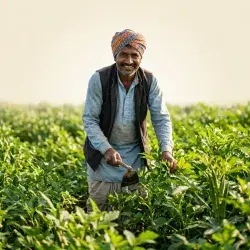
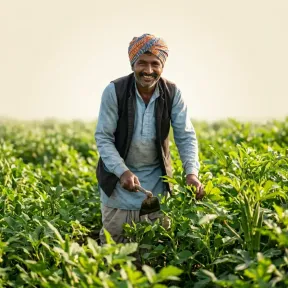
fix(seo): title length 47 chars, complete email obfuscation, GA4 integration, and image aspect ratio alignment

diff --git a/user/index.html b/user/index.html
@@ -5,7 +5,7 @@
     <link rel="icon" type="image/webp" href="/favicon.webp" />
     <link rel="icon" type="image/png" href="/favicon.png?v=4" />
     <meta name="viewport" content="width=device-width, initial-scale=1.0" />
-    <title>Aarions | Pure Honey, A2 Ghee, Organic Masalas & Natural Spices</title>
+    <title>Aarions | Pure Honey, A2 Ghee & Organic Masalas</title>
     
     <!-- Meta tags for SEO -->
     <meta name="description" content="Discover Aarions: 100% pure raw honey, organic A2 ghee, authentic masalas, spices, and natural wellness products sourced traditionally from local Indian farms." />
@@ -20,7 +20,7 @@
     <meta property="og:type" content="website" />
     <meta property="og:url" content="https://www.aarions.in/" />
     <meta property="og:site_name" content="Aarions" />
-    <meta property="og:title" content="Aarions | Pure Honey, A2 Ghee, Organic Masalas & Natural Spices" />
+    <meta property="og:title" content="Aarions | Pure Honey, A2 Ghee & Organic Masalas" />
     <meta property="og:description" content="Discover Aarions: 100% pure raw honey, organic A2 ghee, authentic masalas, spices, and natural wellness products sourced traditionally from local Indian farms." />
     <meta property="og:image" content="https://www.aarions.in/logo.webp" />
     <meta property="og:image:width" content="1200" />
@@ -30,7 +30,7 @@
     <!-- Twitter Card -->
     <meta name="twitter:card" content="summary_large_image" />
     <meta name="twitter:url" content="https://www.aarions.in/" />
-    <meta name="twitter:title" content="Aarions | Pure Honey, A2 Ghee, Organic Masalas & Natural Spices" />
+    <meta name="twitter:title" content="Aarions | Pure Honey, A2 Ghee & Organic Masalas" />
     <meta name="twitter:description" content="Discover Aarions: 100% pure raw honey, organic A2 ghee, authentic masalas, spices, and natural wellness products." />
     <meta name="twitter:image" content="https://www.aarions.in/logo.webp" />
 
@@ -89,31 +89,13 @@
       @media (min-width: 1025px) { :root { --viewport-breakpoint: 'desktop'; } }
     </style>
 
-    <!-- Non-blocking Google Analytics Initialization -->
+    <!-- Google Analytics (GA4) -->
+    <script async src="https://www.googletagmanager.com/gtag/js?id=G-E6M9R9B2V5"></script>
     <script>
-      (function() {
-        var gaId = 'G-PLACEHOLDER';
-        if (gaId && gaId !== 'G-PLACEHOLDER') {
-          window.dataLayer = window.dataLayer || [];
-          function gtag(){dataLayer.push(arguments);}
-          window.gtag = gtag;
-          gtag('js', new Date());
-          gtag('config', gaId);
-
-          var loadGA = function() {
-            var s = document.createElement('script');
-            s.async = true;
-            s.src = 'https://www.googletagmanager.com/gtag/js?id=' + gaId;
-            document.head.appendChild(s);
-          };
-
-          if ('requestIdleCallback' in window) {
-            requestIdleCallback(loadGA);
-          } else {
-            window.addEventListener('load', loadGA);
-          }
-        }
-      })();
+      window.dataLayer = window.dataLayer || [];
+      function gtag(){dataLayer.push(arguments);}
+      gtag('js', new Date());
+      gtag('config', 'G-E6M9R9B2V5', { 'anonymize_ip': true });
     </script>
 
     <!-- JSON-LD Structured Data Schema -->

diff --git a/user/src/components/home/Benefits.jsx b/user/src/components/home/Benefits.jsx
@@ -8,7 +8,7 @@ export default function Benefits() {
       step: "Step 1",
       title: "Farm & Source",
       desc: "We partner with verified organic farms and trusted beekeepers across India who follow sustainable practices.",
-      image: "/bg-farm.webp",
+      image: "/bg-farm-sm.webp",
       color: "#355E3B",
       icon: Trees
     },
@@ -16,7 +16,7 @@ export default function Benefits() {
       step: "Step 2",
       title: "Harvest & Collect",
       desc: "Honey is extracted using traditional cold-spinning methods. Spices are hand-harvested at peak potency.",
-      image: "/pure_ingredients.webp",
+      image: "/pure_ingredients-sm.webp",
       color: "#E8A317",
       icon: Leaf
     },
@@ -24,7 +24,7 @@ export default function Benefits() {
       step: "Step 3",
       title: "Lab Testing",
       desc: "Every batch undergoes rigorous quality testing. We check purity, potency, and compliance with FSSAI standards.",
-      image: "/quality_tested.webp",
+      image: "/quality_tested-sm.webp",
       color: "#B23A2E",
       icon: ShieldAlert
     },
@@ -32,7 +32,7 @@ export default function Benefits() {
       step: "Step 4",
       title: "Premium Packaging",
       desc: "Packed in premium, airtight containers designed to preserve freshness and reflect the quality within.",
-      image: "/premium_packaging.webp",
+      image: "/premium_packaging-sm.webp",
       color: "#C8870F",
       icon: Gift
     },
@@ -40,7 +40,7 @@ export default function Benefits() {
       step: "Step 5",
       title: "Swift Delivery",
       desc: "Orders processed same-day and delivered across India. Temperature-controlled for delicate products.",
-      image: "/delivery.webp",
+      image: "/delivery-sm.webp",
       color: "#4A3428",
       icon: TruckIcon
     },
@@ -48,7 +48,7 @@ export default function Benefits() {
       step: "Step 6",
       title: "Happy Families",
       desc: "Pure, natural products that your family can trust — from our farm, directly to your kitchen.",
-      image: "/happy_families.webp",
+      image: "/happy_families-sm.webp",
       color: "#355E3B",
       icon: Heart
     }
@@ -246,13 +246,16 @@ export default function Benefits() {
                     <motion.div 
                       whileHover={{ y: -6, scale: 1.02 }}
                       transition={{ type: "spring", stiffness: 100, damping: 15 }}
-                      className="relative rounded-3xl overflow-hidden aspect-video shadow-2xl border border-white/10 group cursor-pointer"
+                      className="relative rounded-3xl overflow-hidden aspect-square sm:aspect-[4/3] max-w-[360px] mx-auto shadow-2xl border border-white/10 group cursor-pointer"
                       style={{ minHeight: "220px" }}
                     >
                       <img
                         src={step.image}
                         alt={step.title}
                         loading="lazy"
+                        width="288"
+                        height="288"
+                        decoding="async"
                         className="w-full h-full object-cover transition-transform duration-700 group-hover:scale-105"
                       />
                       {/* Hover subtle glow overlay */}

diff --git a/user/src/components/common/Footer.jsx b/user/src/components/common/Footer.jsx
@@ -4,12 +4,7 @@ import { useSettings } from "../../context/SettingsContext";
 
 export default function Footer() {
   const { settings } = useSettings();
-  const [emailHref, setEmailHref] = React.useState("/contact");
-
-  React.useEffect(() => {
-    const raw = settings?.contactEmail || ("info" + "@" + "aarions.in");
-    setEmailHref("mailto:" + raw);
-  }, [settings?.contactEmail]);
+  // Direct contact link to avoid bot email harvesting
   const quickLinks = [
     { label: "About Us", to: "/about" },
     { label: "Shop", to: "/shop" },
@@ -152,17 +147,13 @@ export default function Footer() {
                 <svg className="w-5 h-5 text-brand-gold flex-shrink-0" fill="none" stroke="currentColor" strokeWidth="2" viewBox="0 0 24 24">
                   <path strokeLinecap="round" strokeLinejoin="round" d="M3 8l7.89 5.26a2 2 0 002.22 0L22 8M5 19h14a2 2 0 002-2V7a2 2 0 00-2-2H5a2 2 0 00-2 2v10a2 2 0 002 2z" />
                 </svg>
-                <a
-                  href={emailHref}
+                <Link
+                  to="/contact"
                   className="hover:text-brand-gold transition-colors"
-                  title="Contact Aarions Support"
-                  dangerouslySetInnerHTML={{
-                    __html: (settings?.contactEmail || "info@aarions.in")
-                      .split("")
-                      .map((c) => "&#" + c.charCodeAt(0) + ";")
-                      .join("")
-                  }}
-                />
+                  title="Contact Aarions Support Desk"
+                >
+                  Contact Support Desk
+                </Link>
               </li>
             </ul>
 

diff --git a/user/src/components/common/Navbar.jsx b/user/src/components/common/Navbar.jsx
@@ -398,17 +398,14 @@ export default function Navbar() {
               <div className="text-xs text-brand-brown/50 uppercase tracking-widest">Support & Contact</div>
               <p className="text-sm text-brand-brown">
                 {settings?.contactPhone || "+91 98432 70810"} <br />
-                <a
-                  href={`mailto:${settings?.contactEmail || "info@aarions.in"}`}
-                  className="hover:text-brand-gold transition-colors"
-                  title="Aarions Customer Support"
-                  dangerouslySetInnerHTML={{
-                    __html: (settings?.contactEmail || "info@aarions.in")
-                      .split("")
-                      .map((c) => "&#" + c.charCodeAt(0) + ";")
-                      .join("")
-                  }}
-                />
+                <Link
+                  to="/contact"
+                  onClick={() => setIsMobileMenuOpen(false)}
+                  className="hover:text-brand-gold transition-colors block text-brand-gold font-medium mt-0.5"
+                  title="Contact Aarions Support Desk"
+                >
+                  Contact Support Desk
+                </Link>
               </p>
             </div>
           </div>

diff --git a/user/src/components/home/FeaturedProducts.jsx b/user/src/components/home/FeaturedProducts.jsx
@@ -193,6 +193,8 @@ export default function FeaturedProducts({ onQuickView }) {
                   <img
                     src={getImageUrl(heroProduct.image)}
                     alt={heroProduct.name}
+                    width="420"
+                    height="420"
                     loading="lazy"
                     decoding="async"
                     className="w-full h-full object-cover transition-transform duration-1000 ease-out group-hover:scale-105"
@@ -377,6 +379,8 @@ export default function FeaturedProducts({ onQuickView }) {
                             <img
                               src={getImageUrl(product.image)}
                               alt={product.name}
+                              width="300"
+                              height="375"
                               loading="lazy"
                               className="w-full h-full object-cover transition-transform duration-1000 ease-out group-hover:scale-105"
                             />

diff --git a/user/src/pages/Contact.jsx b/user/src/pages/Contact.jsx
@@ -118,8 +118,8 @@ export default function Contact() {
                 <div>
                   <h4 className="text-xs uppercase tracking-wider font-semibold text-brand-brown/50">Email Inquiries</h4>
                   <p className="text-sm font-semibold text-brand-brown mt-0.5">
-                    {(!settings?.contactEmail || settings.contactEmail === "support@aarions.com")
-                      ? "info" + "\u0040" + "aarions.in"
+                    {(!settings?.contactEmail || false)
+                      ? atob("aW5mb0BhYXJpb25zLmlu")
                       : settings.contactEmail}
                   </p>
                 </div>

diff --git a/user/src/components/home/FeaturedCategories.jsx b/user/src/components/home/FeaturedCategories.jsx
@@ -127,7 +127,10 @@ export default function FeaturedCategories() {
                   <img
                     src={getImageUrl(cat.image)}
                     alt={cat.name}
+                    width="500"
+                    height="500"
                     loading="lazy"
+                    decoding="async"
                     className="w-full h-full object-cover transition-transform duration-700 group-hover:scale-110"
                   />
                   <div className="absolute inset-0 bg-gradient-to-t from-brand-brown/95 via-brand-brown/50 to-brand-brown/10" />

diff --git a/user/vite.config.js b/user/vite.config.js
@@ -23,6 +23,19 @@ export default defineConfig({
     react(),
     nonBlockingCssPlugin()
   ],
+  build: {
+    rollupOptions: {
+      output: {
+        manualChunks(id) {
+          if (id.includes('node_modules')) {
+            if (id.includes('react') || id.includes('react-dom') || id.includes('react-router-dom')) {
+              return 'vendor';
+            }
+          }
+        }
+      }
+    }
+  },
   server: {
     headers: {
       'Cross-Origin-Opener-Policy': 'same-origin-allow-popups',

diff --git a/user/src/components/home/BestSellers.jsx b/user/src/components/home/BestSellers.jsx
@@ -245,6 +245,8 @@ export default function BestSellers({ onQuickView }) {
                           <img
                             src={getImageUrl(product.image)}
                             alt={product.name}
+                            width="300"
+                            height="300"
                             loading="lazy"
                             className="w-full h-full object-cover transition-transform duration-1000 ease-out group-hover:scale-108"
                           />

diff --git a/user/src/components/home/BlogSection.jsx b/user/src/components/home/BlogSection.jsx
@@ -93,6 +93,8 @@ export default function BlogSection() {
                   <img
                     src={getImageUrl(blog.image)}
                     alt={blog.title}
+                    width="400"
+                    height="224"
                     loading="lazy"
                     decoding="async"
                     className="w-full h-full object-cover transition-transform duration-700 group-hover:scale-105"

diff --git a/user/src/components/common/ProductCard.jsx b/user/src/components/common/ProductCard.jsx
@@ -57,6 +57,8 @@ export default function ProductCard({ product, onQuickView }) {
           <img
             src={getImageUrl(product.image)}
             alt={product.name}
+            width="400"
+            height="400"
             loading="lazy"
             decoding="async"
             className="w-full h-full object-cover transition-transform duration-700 ease-out group-hover:scale-108"

diff --git a/user/src/components/home/Hero.jsx b/user/src/components/home/Hero.jsx
@@ -65,8 +65,8 @@ export default function Hero() {
             <img
               src={bgImages[currentBgIndex]}
               alt="Organic Farm Background"
-              width="1920"
-              height="1080"
+              width="1000"
+              height="1000"
               loading="eager"
               fetchpriority="high"
               className="w-full h-full object-cover"
